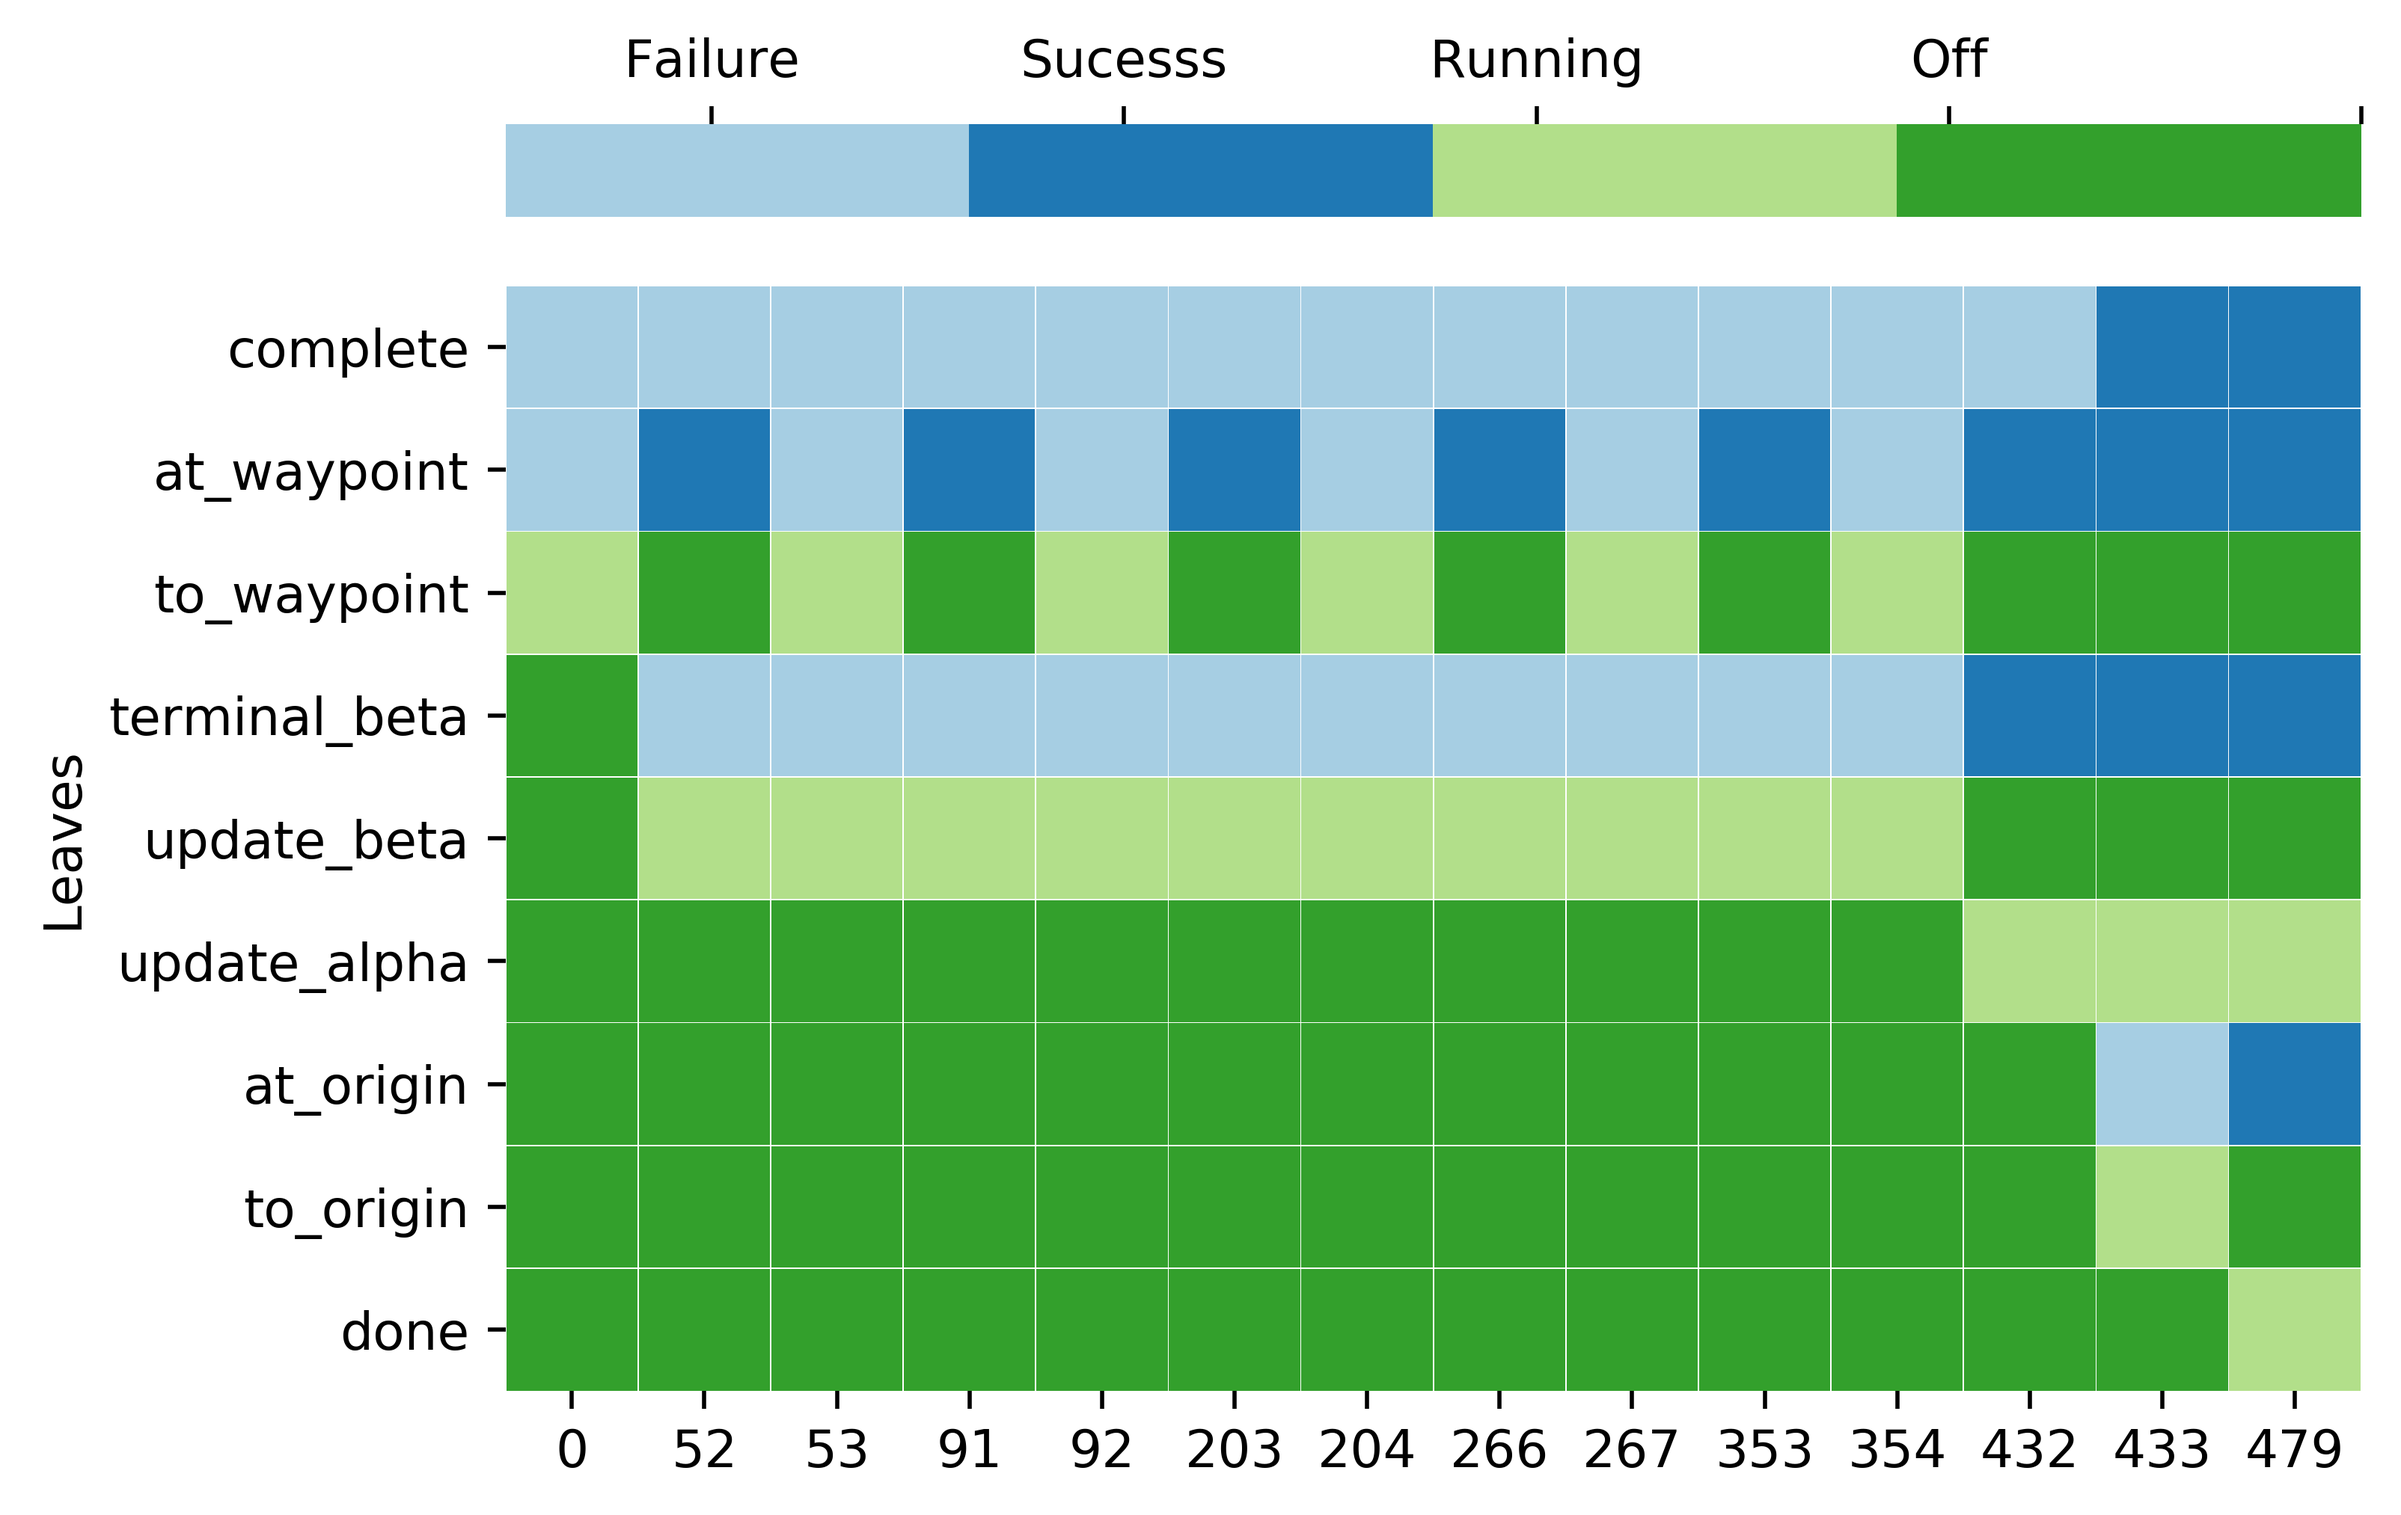
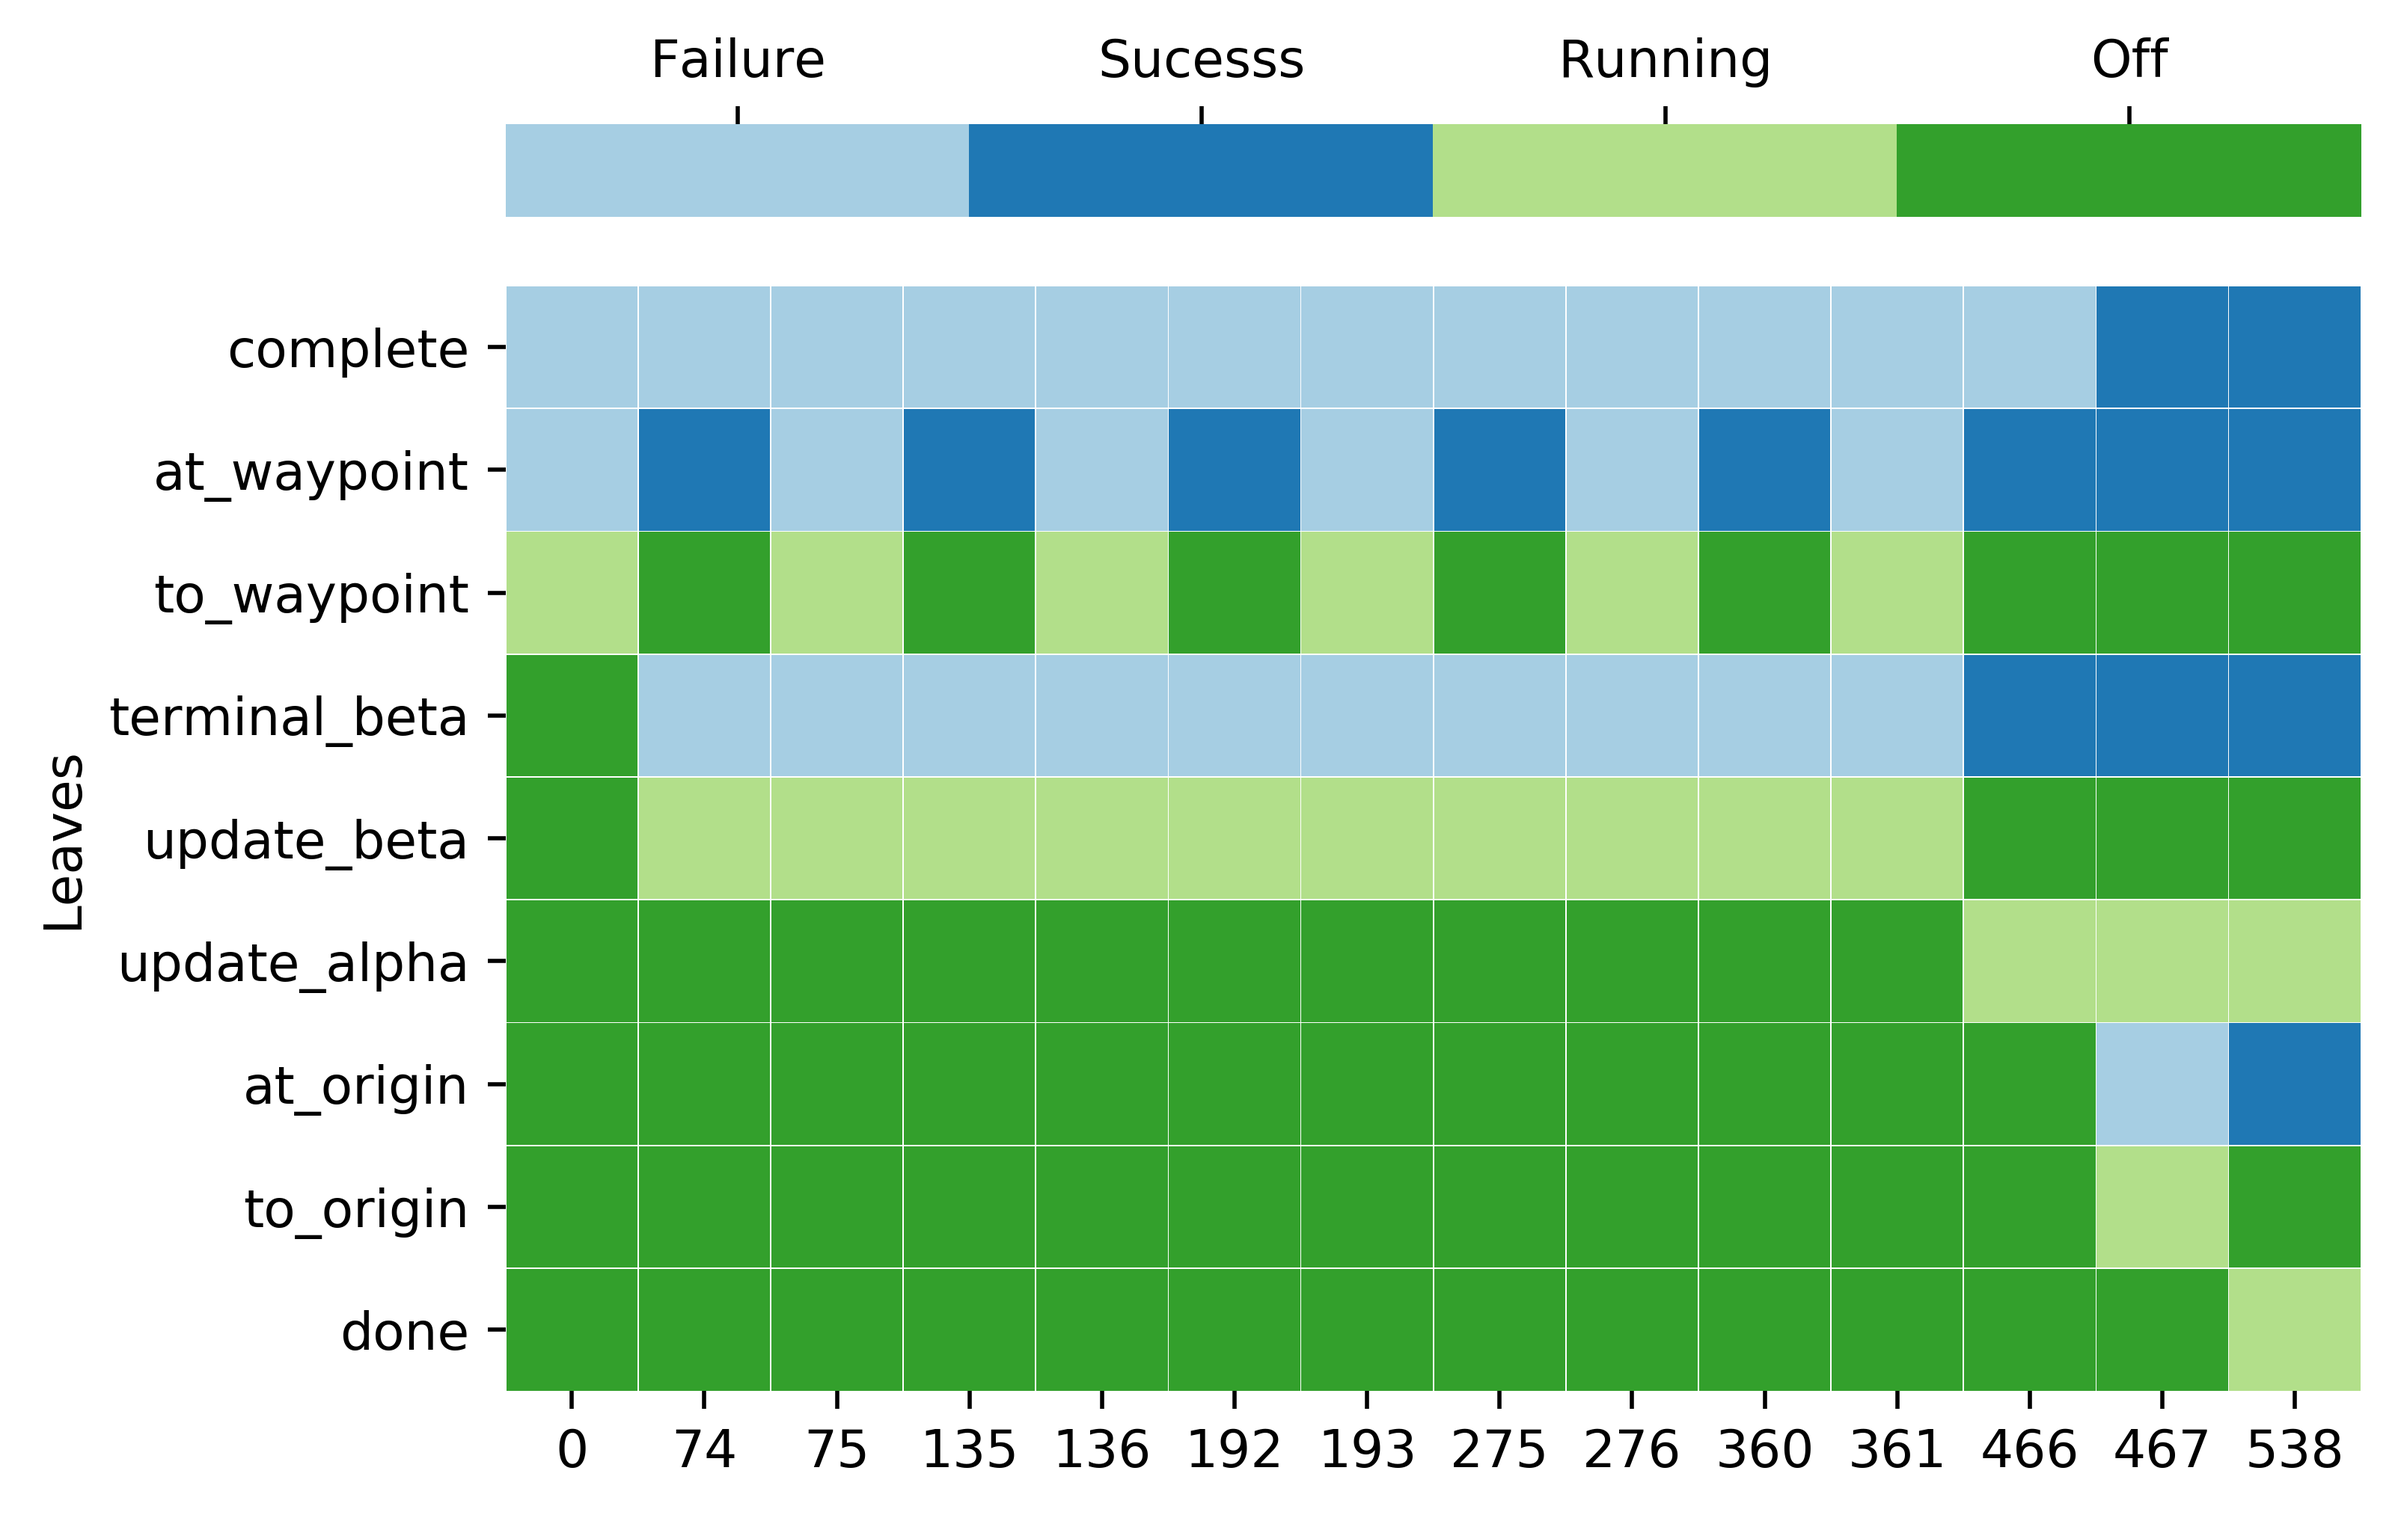
Second commit

diff --git a/pybodhi.py b/pybodhi.py
@@ -166,7 +166,7 @@ class Tree(object):
 
         # set colorbar tick spacing
         cb = ax.collections[0].colorbar
-        cb.set_ticks(np.linspace(0, 3, len(self.response.keys()) + 1)[1::2])
+        cb.set_ticks(np.linspace(0, 3, len(self.response.keys()))[1::2])
 
         # set tick labels
         cb.set_ticklabels(["Failure", "Sucesss", "Running", "Off"])
